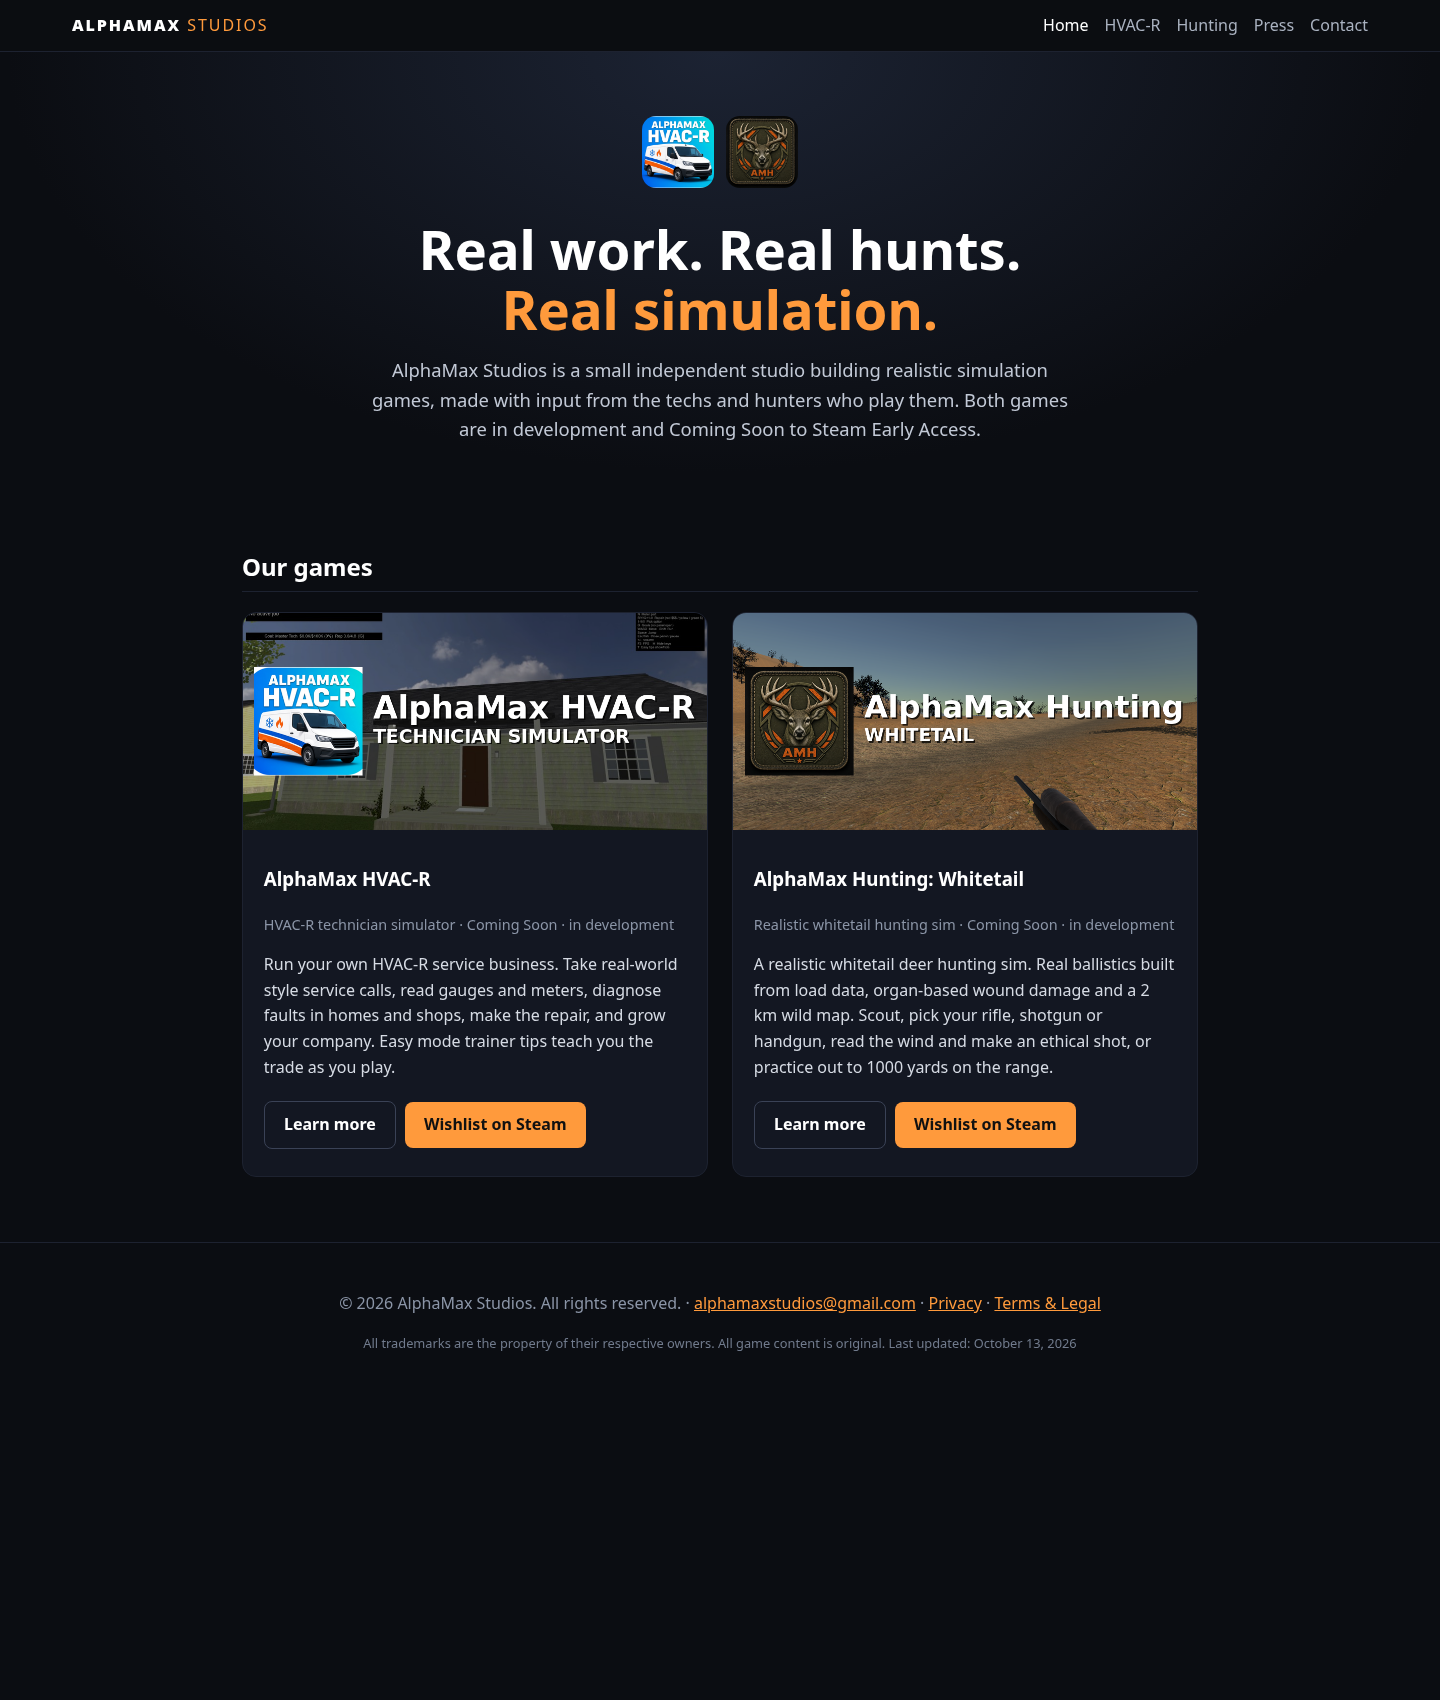
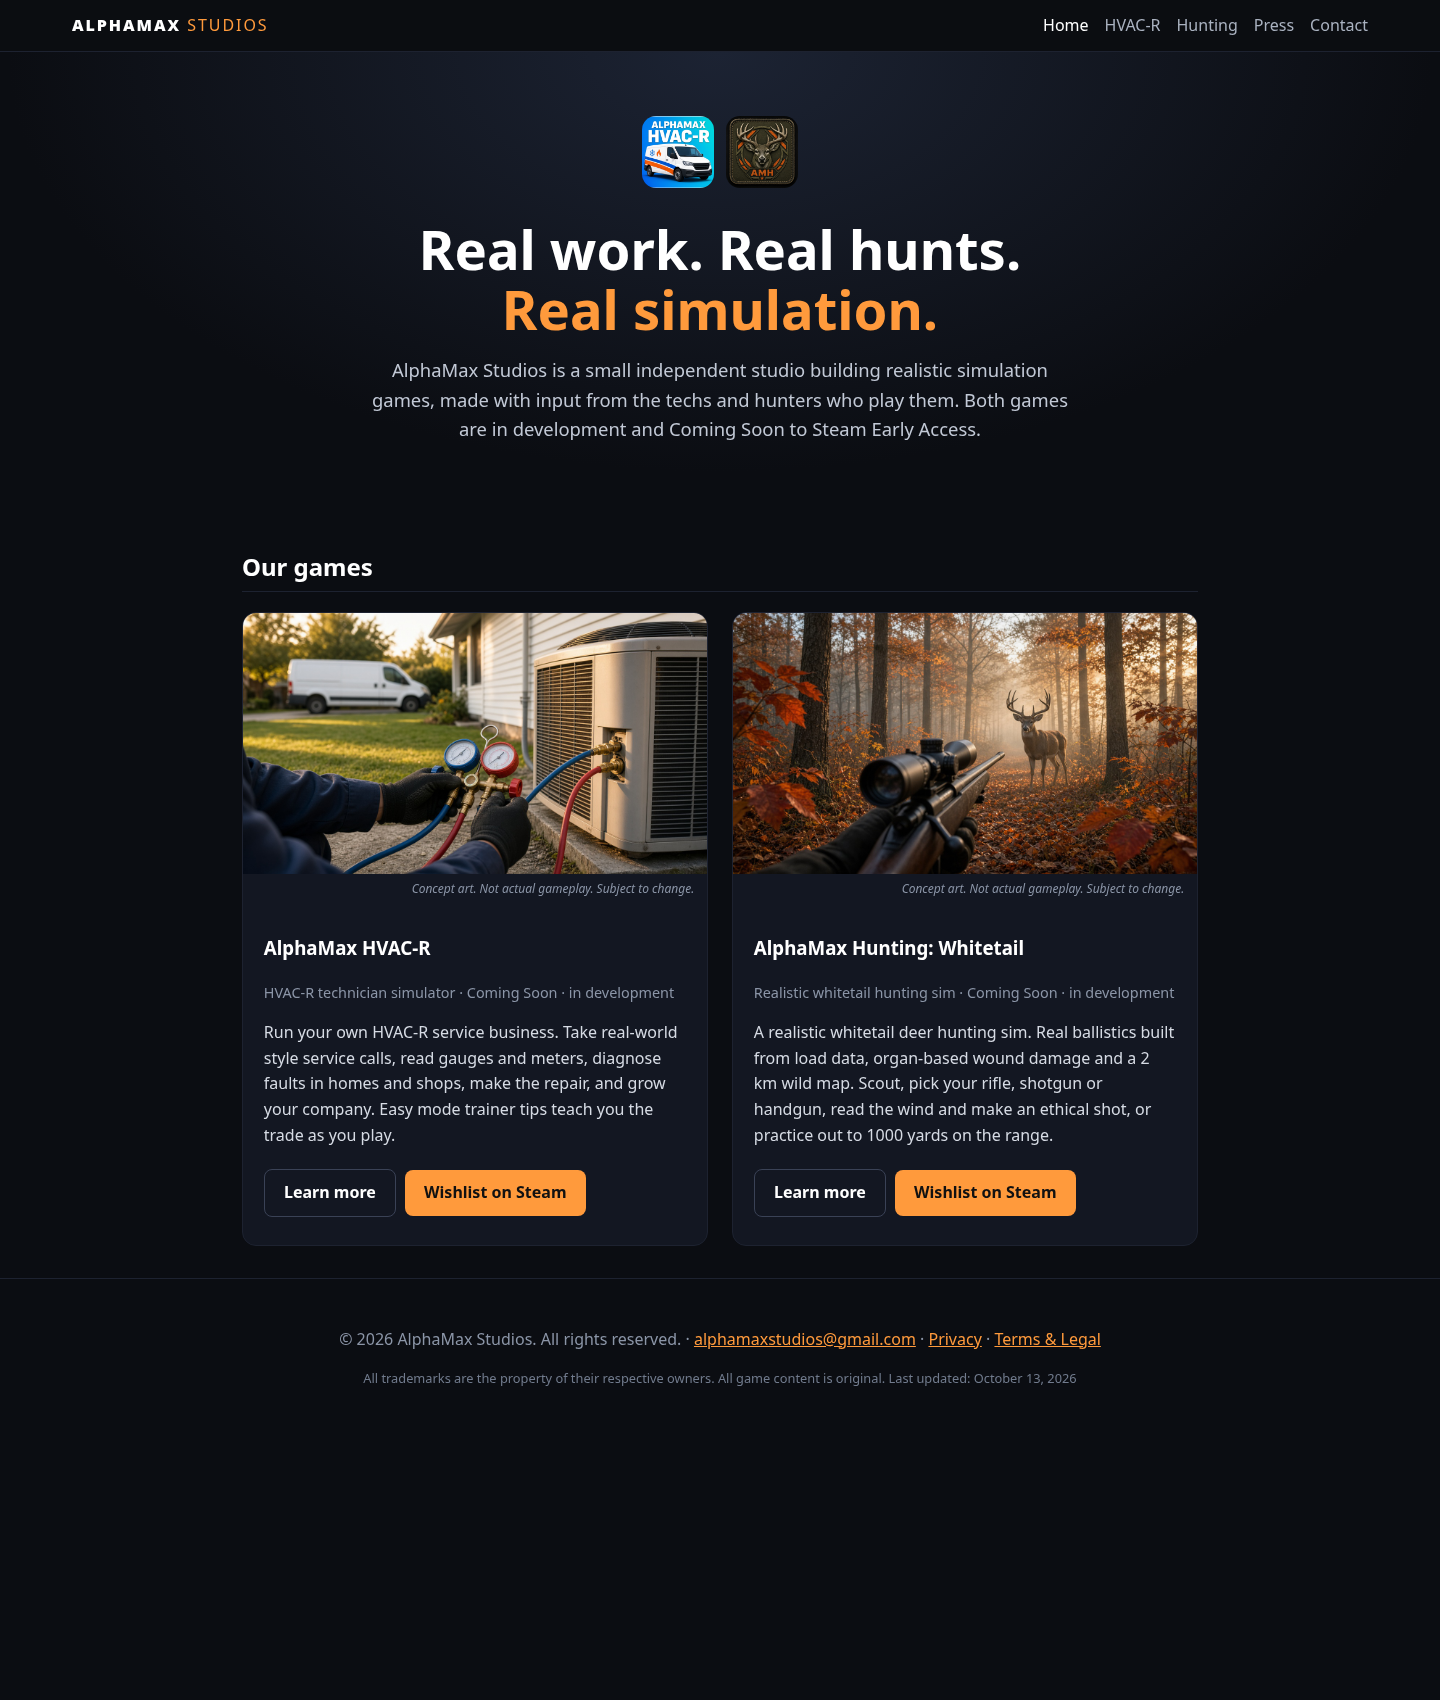
Concept art hero images with caption

Changed region(s): [[0.1562, 0.3429, 0.8438, 0.7171], [0.25, 0.7482, 0.75, 0.8106]]

diff --git a/index.html b/index.html
@@ -1,4 +1,4 @@
 <!doctype html><html lang="en"><head><meta charset="utf-8"><meta name="viewport" content="width=device-width,initial-scale=1">
 <title>Home | AlphaMax Studios</title><meta name="description" content="AlphaMax Studios: indie studio making realistic simulation games."><link rel="stylesheet" href="style.css"><link rel="icon" href="img/hvac_icon.png"></head><body>
-<header><a class="brand" href="index.html">ALPHAMAX<span>STUDIOS</span></a><nav><a href="index.html" class=on>Home</a><a href="hvacr.html">HVAC-R</a><a href="hunting.html">Hunting</a><a href="press.html">Press</a><a href="contact.html">Contact</a></nav></header><main><section class="intro"><img src="img/hvac_icon.png" alt=""><img src="img/hunt_icon.png" alt=""><h1>Real work. Real hunts.<br><span>Real simulation.</span></h1><p class="lead">AlphaMax Studios is a small independent studio building realistic simulation games, made with input from the techs and hunters who play them. Both games are in development and Coming Soon to Steam Early Access.</p></section><section class="wrap"><h2>Our games</h2><div class="cards"><article class="card"><a href="hvacr.html"><img src="img/hvacr/header_capsule.png" alt="AlphaMax HVAC-R"></a><div class="pad"><h3>AlphaMax HVAC-R</h3><p class="tag">HVAC-R technician simulator &middot; Coming Soon &middot; in development</p><p>Run your own HVAC-R service business. Take real-world style service calls, read gauges and meters, diagnose faults in homes and shops, make the repair, and grow your company. Easy mode trainer tips teach you the trade as you play.</p><a class="btn ghost" href="hvacr.html">Learn more</a> <a class="btn" href="#steam-coming-soon" title="Steam page coming soon">Wishlist on Steam</a></div></article><article class="card"><a href="hunting.html"><img src="img/hunting/header_capsule.png" alt="AlphaMax Hunting: Whitetail"></a><div class="pad"><h3>AlphaMax Hunting: Whitetail</h3><p class="tag">Realistic whitetail hunting sim &middot; Coming Soon &middot; in development</p><p>A realistic whitetail deer hunting sim. Real ballistics built from load data, organ-based wound damage and a 2 km wild map. Scout, pick your rifle, shotgun or handgun, read the wind and make an ethical shot, or practice out to 1000 yards on the range.</p><a class="btn ghost" href="hunting.html">Learn more</a> <a class="btn" href="#steam-coming-soon" title="Steam page coming soon">Wishlist on Steam</a></div></article></div></section></main>
+<header><a class="brand" href="index.html">ALPHAMAX<span>STUDIOS</span></a><nav><a href="index.html" class=on>Home</a><a href="hvacr.html">HVAC-R</a><a href="hunting.html">Hunting</a><a href="press.html">Press</a><a href="contact.html">Contact</a></nav></header><main><section class="intro"><img src="img/hvac_icon.png" alt=""><img src="img/hunt_icon.png" alt=""><h1>Real work. Real hunts.<br><span>Real simulation.</span></h1><p class="lead">AlphaMax Studios is a small independent studio building realistic simulation games, made with input from the techs and hunters who play them. Both games are in development and Coming Soon to Steam Early Access.</p></section><section class="wrap"><h2>Our games</h2><div class="cards"><article class="card"><a href="hvacr.html"><img class="cardimg" src="img/concept/hvacr_hero.jpg" alt="AlphaMax HVAC-R"></a><p class="cap">Concept art. Not actual gameplay. Subject to change.</p><div class="pad"><h3>AlphaMax HVAC-R</h3><p class="tag">HVAC-R technician simulator &middot; Coming Soon &middot; in development</p><p>Run your own HVAC-R service business. Take real-world style service calls, read gauges and meters, diagnose faults in homes and shops, make the repair, and grow your company. Easy mode trainer tips teach you the trade as you play.</p><a class="btn ghost" href="hvacr.html">Learn more</a> <a class="btn" href="#steam-coming-soon" title="Steam page coming soon">Wishlist on Steam</a></div></article><article class="card"><a href="hunting.html"><img class="cardimg" src="img/concept/hunting_hero.jpg" alt="AlphaMax Hunting: Whitetail"></a><p class="cap">Concept art. Not actual gameplay. Subject to change.</p><div class="pad"><h3>AlphaMax Hunting: Whitetail</h3><p class="tag">Realistic whitetail hunting sim &middot; Coming Soon &middot; in development</p><p>A realistic whitetail deer hunting sim. Real ballistics built from load data, organ-based wound damage and a 2 km wild map. Scout, pick your rifle, shotgun or handgun, read the wind and make an ethical shot, or practice out to 1000 yards on the range.</p><a class="btn ghost" href="hunting.html">Learn more</a> <a class="btn" href="#steam-coming-soon" title="Steam page coming soon">Wishlist on Steam</a></div></article></div></section></main>
 <footer><p>&copy; 2026 AlphaMax Studios. All rights reserved. &middot; <a href="mailto:alphamaxstudios@gmail.com">alphamaxstudios@gmail.com</a> &middot; <a href="privacy.html">Privacy</a> &middot; <a href="legal.html">Terms &amp; Legal</a></p><p class="small">All trademarks are the property of their respective owners. All game content is original. Last updated: October 13, 2026</p></footer></body></html>

diff --git a/hunting.html b/hunting.html
@@ -1,6 +1,6 @@
 <!doctype html><html lang="en"><head><meta charset="utf-8"><meta name="viewport" content="width=device-width,initial-scale=1">
 <title>AlphaMax Hunting: Whitetail | AlphaMax Studios</title><meta name="description" content="AlphaMax Studios: indie studio making realistic simulation games."><link rel="stylesheet" href="style.css"><link rel="icon" href="img/hvac_icon.png"></head><body>
-<header><a class="brand" href="index.html">ALPHAMAX<span>STUDIOS</span></a><nav><a href="index.html">Home</a><a href="hvacr.html">HVAC-R</a><a href="hunting.html" class=on>Hunting</a><a href="press.html">Press</a><a href="contact.html">Contact</a></nav></header><main><section class="hero" style="background-image:linear-gradient(transparent,#0b0d12),url(img/hunting/library_hero.png)"><img class="logo" src="img/hunting/library_logo.png" alt="AlphaMax Hunting: Whitetail"></section>
+<header><a class="brand" href="index.html">ALPHAMAX<span>STUDIOS</span></a><nav><a href="index.html">Home</a><a href="hvacr.html">HVAC-R</a><a href="hunting.html" class=on>Hunting</a><a href="press.html">Press</a><a href="contact.html">Contact</a></nav></header><main><section class="hero" style="background-image:linear-gradient(transparent,#0b0d12),url(img/concept/hunting_hero.jpg)"><img class="logo" src="img/hunting/library_logo.png" alt="AlphaMax Hunting: Whitetail"></section><p class="cap">Concept art. Not actual gameplay. Subject to change.</p>
 <section class="wrap"><p class="tag">Realistic whitetail hunting sim &middot; Coming Soon &middot; Early Access pre-alpha, in development &middot; Windows</p><p class="lead">A realistic whitetail deer hunting sim. Real ballistics built from load data, organ-based wound damage and a 2 km wild map. Scout, pick your rifle, shotgun or handgun, read the wind and make an ethical shot, or practice out to 1000 yards on the range.</p><a class="btn" href="#steam-coming-soon" title="Steam page coming soon">Wishlist on Steam</a> <a class="btn ghost" href="mailto:alphamaxstudios@gmail.com?subject=AlphaMax Hunting: Whitetail feedback">Send feedback</a>
 <h2>Features</h2><p class="note">Features and content are subject to change. The game is in development.</p><ul>
 <li>Real ballistics: drop, drift and energy from real load data</li>

diff --git a/hvacr.html b/hvacr.html
@@ -1,6 +1,6 @@
 <!doctype html><html lang="en"><head><meta charset="utf-8"><meta name="viewport" content="width=device-width,initial-scale=1">
 <title>AlphaMax HVAC-R | AlphaMax Studios</title><meta name="description" content="AlphaMax Studios: indie studio making realistic simulation games."><link rel="stylesheet" href="style.css"><link rel="icon" href="img/hvac_icon.png"></head><body>
-<header><a class="brand" href="index.html">ALPHAMAX<span>STUDIOS</span></a><nav><a href="index.html">Home</a><a href="hvacr.html" class=on>HVAC-R</a><a href="hunting.html">Hunting</a><a href="press.html">Press</a><a href="contact.html">Contact</a></nav></header><main><section class="hero" style="background-image:linear-gradient(transparent,#0b0d12),url(img/hvacr/library_hero.png)"><img class="logo" src="img/hvacr/library_logo.png" alt="AlphaMax HVAC-R"></section>
+<header><a class="brand" href="index.html">ALPHAMAX<span>STUDIOS</span></a><nav><a href="index.html">Home</a><a href="hvacr.html" class=on>HVAC-R</a><a href="hunting.html">Hunting</a><a href="press.html">Press</a><a href="contact.html">Contact</a></nav></header><main><section class="hero" style="background-image:linear-gradient(transparent,#0b0d12),url(img/concept/hvacr_hero.jpg)"><img class="logo" src="img/hvacr/library_logo.png" alt="AlphaMax HVAC-R"></section><p class="cap">Concept art. Not actual gameplay. Subject to change.</p>
 <section class="wrap"><p class="tag">HVAC-R technician simulator &middot; Coming Soon &middot; Early Access pre-alpha, in development &middot; Windows</p><p class="lead">Run your own HVAC-R service business. Take real-world style service calls, read gauges and meters, diagnose faults in homes and shops, make the repair, and grow your company. Easy mode trainer tips teach you the trade as you play.</p><a class="btn" href="#steam-coming-soon" title="Steam page coming soon">Wishlist on Steam</a> <a class="btn ghost" href="mailto:alphamaxstudios@gmail.com?subject=AlphaMax HVAC-R feedback">Send feedback</a>
 <h2>Features</h2><p class="note">Features and content are subject to change. The game is in development.</p><ul>
 <li>Realistic service calls: no-cool, no-heat, short cycling, noisy units and more</li>

diff --git a/style.css b/style.css
@@ -8,4 +8,4 @@ main{min-height:70vh}.wrap{max-width:1100px;margin:auto;padding:2rem 5vw}h1{font
 .hero{height:clamp(220px,38vw,440px);background-size:cover;background-position:center;display:flex;align-items:flex-end;justify-content:center}.hero .logo{max-height:70%;max-width:80%}
 .grid{display:grid;grid-template-columns:repeat(auto-fill,minmax(240px,1fr));gap:.8rem}.grid img{border-radius:8px;aspect-ratio:16/9;object-fit:cover;width:100%}.logos img{object-fit:contain;background:#131722;padding:1rem}
 .cols{display:grid;grid-template-columns:repeat(auto-fit,minmax(280px,1fr));gap:0 2rem}.cols h4{grid-column:auto}table{border-collapse:collapse;width:100%}th,td{text-align:left;padding:.5rem;border-bottom:1px solid #1d2230;vertical-align:top}th{color:#8b95a7;width:35%}
-footer{text-align:center;padding:2rem 5vw;border-top:1px solid #1d2230;color:#8b95a7}.small{font-size:.8rem;color:#717b8d}.note{background:#1c2333;border-left:3px solid #ff9a3c;padding:.6rem 1rem;border-radius:6px;color:#c2c9d6}
+footer{text-align:center;padding:2rem 5vw;border-top:1px solid #1d2230;color:#8b95a7}.small{font-size:.8rem;color:#717b8d}.note{background:#1c2333;border-left:3px solid #ff9a3c;padding:.6rem 1rem;border-radius:6px;color:#c2c9d6}.cap{font-size:.75rem;color:#8b95a7;text-align:right;margin:.3rem 5vw 0;font-style:italic}.card .cap{margin:.3rem .8rem 0}.cardimg{aspect-ratio:16/9;object-fit:cover;width:100%}
